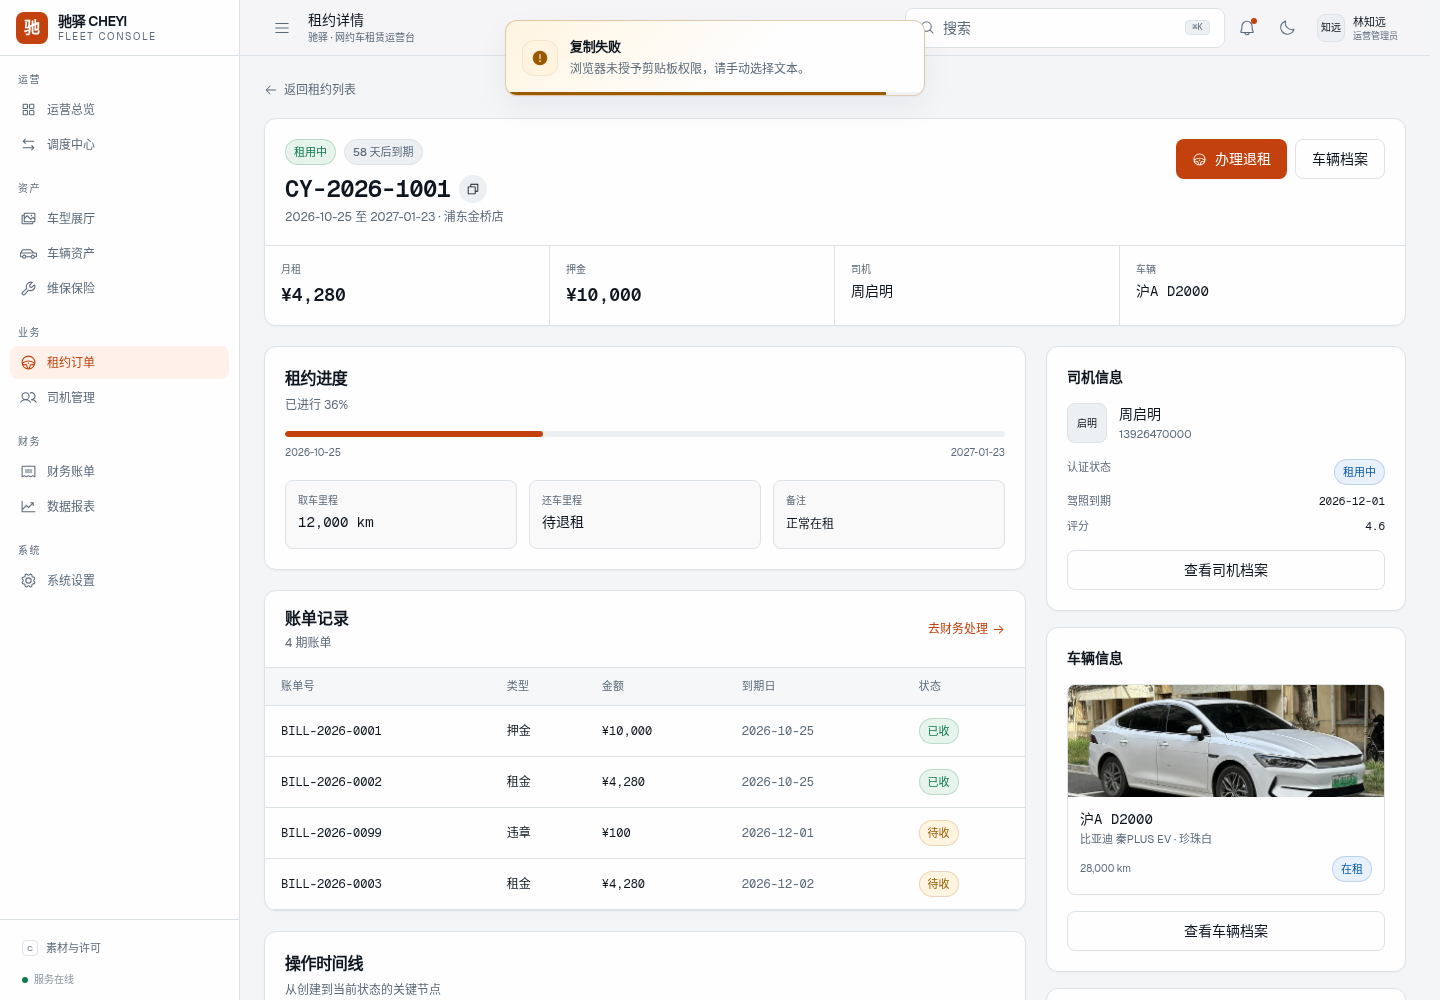
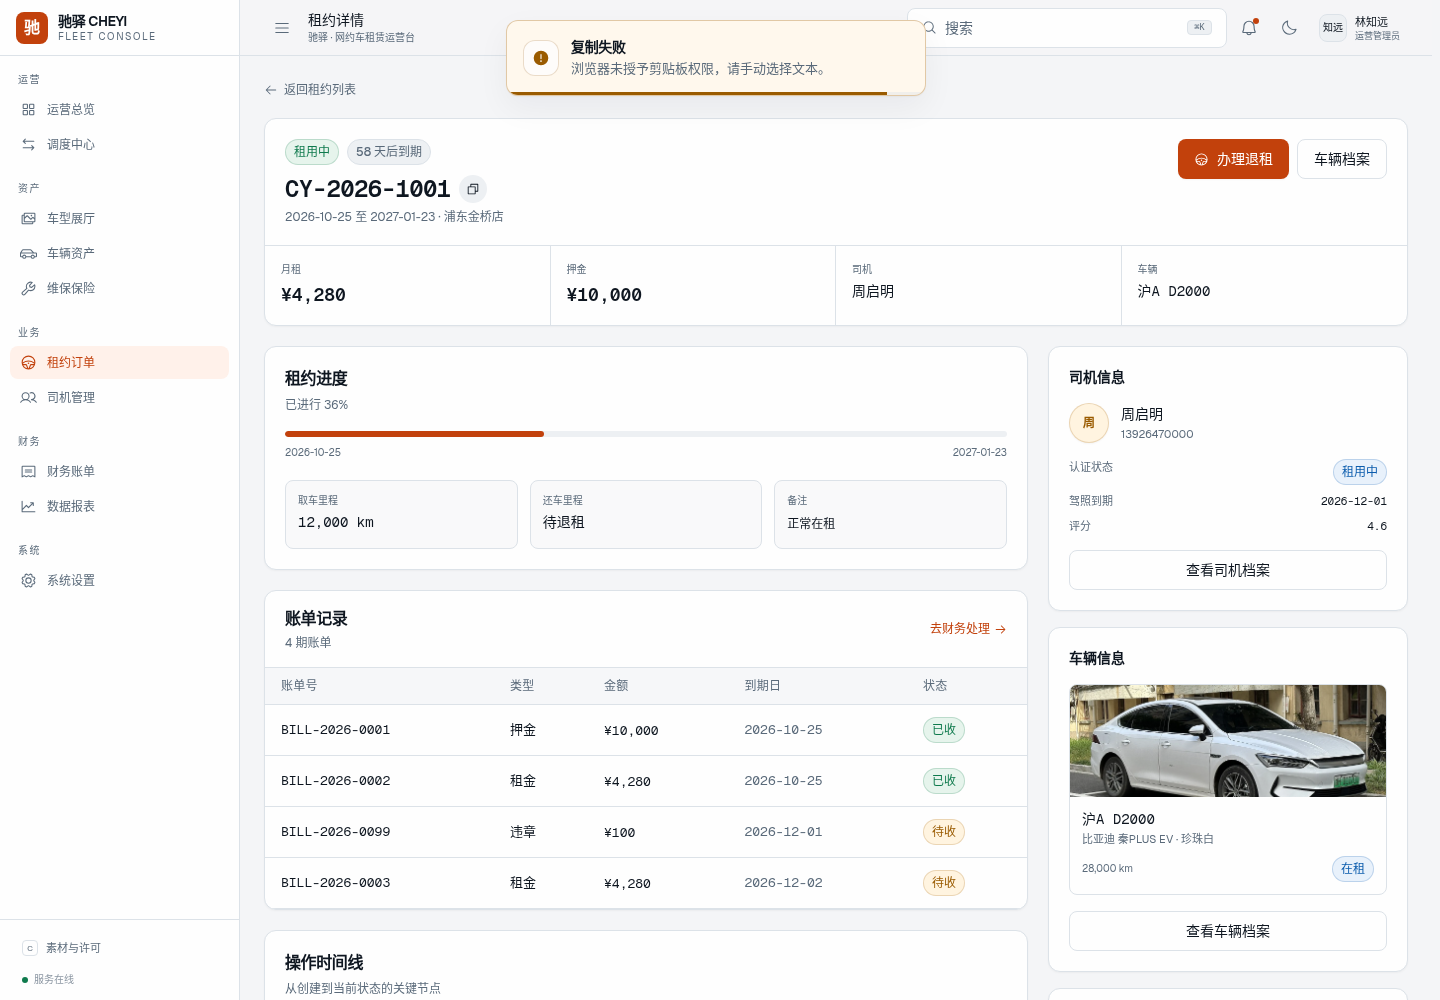
docs: 更新视觉细节规范与预览截图
- 补充 Tab、表格字号、滚动条配色、Toast 表面、彩色头像和图表图例规范
- 更新总览、移动端和 Toast 预览图
- 同步构建产物与性能文档中的体积数据

diff --git a/docs/09-手机号认证与交互组件.md b/docs/09-手机号认证与交互组件.md
@@ -93,7 +93,7 @@
 - Toast 从页面顶部出现，容器固定在 `top-0`，层级 `z-[120]`，覆盖 Topbar 而不是从 Topbar 下方出现。
 - 新的顶部 Toast 结构：
   - 12px 圆角、语义边框与 `shadow-card`
-  - 语义渐变表面（success / error / warning / info）
+  - 语义纯色柔和表面（success / error / warning / info，使用 color-mix 与 card 融合）
   - 圆角方形语义图标，与标题/描述整体垂直居中
   - 标题 / 描述
   - 不使用关闭按钮，4.2 秒后自动消失
@@ -135,7 +135,7 @@
 | 表单控件高度 | 44px |
 | 下拉选项 gap / 账号菜单 gap | 4px / 4px |
 | Toast 尺寸 | 420 × 76px（带描述） |
-| Toast 渐变 / 阴影 / 进度轨 | 通过 |
+| Toast 纯色表面 / 阴影 / 进度轨 | 通过 |
 | Toast 无关闭 X / 无状态标签 | 通过 |
 | 主滚动条上下箭头 | 无 |
 | 主题切换滚动条颜色 | 扩散结束后更新 |
@@ -182,7 +182,7 @@
 - 下拉触发器移除 `leading-none`，选项统一 `leading-5`；文字不再被上下裁切。
 - 紧凑搜索/下拉/日期/数字输入字号统一 14px；不再使用 12px 小字。
 - Select / DatePicker 在 portal 内聚焦统一使用 `preventScroll: true`，打开下拉不再把页面滚动条拉到底部。
-- 主滚动条宽 8px、不透明轨道；内部 `scrollbar-thin` 宽 8px、透明轨道，二者独立；`::-webkit-scrollbar-button` 设为 `display:none`，全项目滚动条无上下箭头。
+- 主滚动条宽 8px、品牌 accent 橙色系；内部 `scrollbar-thin` 宽 8px、info 蓝色半透明；二者独立；`::-webkit-scrollbar-button` 设为 `display:none`，全项目滚动条无上下箭头。
 - 主题扩散期间冻结滚动条变量，扩散完成后再切换滚动条颜色；恢复 root View Transition，扩散动画保持 700ms 从左下角展开。
 - 司机详情统计改为 Card 全宽通栏，分隔线不再被圆角背景截断。
 - 下拉、日期、Tab 的图标与文字使用 `flex + items-center`，图标中心与文字中心偏差为 0。

diff --git a/docs/12-性能优化与Toast体系.md b/docs/12-性能优化与Toast体系.md
@@ -21,9 +21,9 @@
 
 | 指标 | 优化前 | 优化后 |
 |---|---|---|
-| 主入口 JS | 973.37 kB / 265.62 kB gzip | 477.98 kB / 143.06 kB gzip |
+| 主入口 JS | 973.37 kB / 265.62 kB gzip | 477.82 kB / 142.92 kB gzip |
 | 页面 chunk | 全部在主入口 | 5.6–26.8 kB 按需加载 |
-| UI 共享 chunk | 混在主入口 | 266.83 kB / 78.53 kB gzip |
+| UI 共享 chunk | 混在主入口 | 268.75 kB / 78.81 kB gzip |
 | Three.js chunk | 690 kB / 174 kB gzip | 690.16 kB / 174.01 kB gzip，仍按 3D Tab 懒加载 |
 
 首屏入口 gzip 体积下降约 46%。业务页面在首次访问时加载对应 chunk，之后由浏览器缓存。
@@ -67,7 +67,7 @@
 
 - 固定在顶部居中，最大宽度 420px
 - 12px 圆角、1px 语义边框、`shadow-card`
-- 语义渐变表面：success / error / warning / info
+- 语义纯色柔和表面：success / error / warning / info，使用 `color-mix` 与 card 融合
 - 36px 圆角方形图标，与文字整体垂直居中
 - 不使用状态标签
 - 不使用关闭按钮，避免视觉噪音，4.2s 后自动消失

diff --git a/docs/07-样式复用与一致性审计.md b/docs/07-样式复用与一致性审计.md
@@ -231,3 +231,19 @@
 - 表单字段错误使用 Field inline error；跨字段/步骤校验使用 warning Toast
 - 租约签约、取消等生命周期操作使用 ConfirmDialog；普通单步操作直接执行并反馈
 - 完成态操作统一使用 disabled Button，cursor 为 `not-allowed`
+
+
+---
+
+## 12. 视觉细节调整（2026-11-26）
+
+| 项目 | 调整 |
+|---|---|
+| Tab 文案 | 12px → 14px；计数 10px → 11px |
+| 表格 | 表头 11px → 12px；数据基准 13px → 14px；表格主列 12px → 13px；次级说明 10px → 12px |
+| 状态徽标 | 11px → 12px |
+| Toast | 去掉渐变，改为语义纯色柔和表面；图标改用 card 融合底色；标题 14px、描述 13px |
+| 主内容滚动条 | 改用品牌 accent 橙色系，避免黑色系 |
+| 下拉/内部滚动条 | 改用半透明 info 蓝色系，轨道保持透明 |
+| 最近租约头像 | 方形姓名块改为圆形，仅显示姓，字号提升到 12px |
+| 营收/出租率图表 | 图例水平居中、字号 14px；看板图表高度 220 → 280 |

diff --git a/docs/06-UI组件与设计优化.md b/docs/06-UI组件与设计优化.md
@@ -139,6 +139,8 @@
 ### 5.3 视觉系统细节
 
 - 控件高度：表单 44px、筛选 40px、按钮 40px；搜索 `sm` 40px、`md` 44px、`lg` 48px。
+- Tabs 文案 14px；表格表头 12px、数据默认 14px、表格内次级说明 12px。
+- 主内容滚动条品牌橙色；下拉与内部滚动条蓝色半透明。
 - 紧凑搜索/下拉字号 14px；统计卡 hover 背景变化并过渡 200ms。
 - 主内容滚动条宽 8px、不透明轨道；内部 thin 8px、透明轨道；全项目无上下箭头。
 - 圆角：控件 8px，浮层 12px；与项目 Card 的 shape lock 一致。
